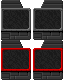
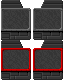
Prices in equip slot menu #739

diff --git a/src/weapon_menu.c b/src/weapon_menu.c
@@ -193,6 +193,9 @@ static void DrawEquipSlot(
 	const bool selected = data->EquipSlot == slot;
 	color_t color = data->equipping ? colorDarkGray : colorWhite;
 	color_t mask = color;
+	// Allow space for price if buy/sell enabled
+	const int h =
+		EQUIP_MENU_SLOT_HEIGHT + (gCampaign.Setting.BuyAndSell ? FontH() : 0);
 	if (selected)
 	{
 		if (data->equipping)
@@ -206,7 +209,7 @@ static void DrawEquipSlot(
 			// Add 1px padding
 			const struct vec2i bgPos = svec2i_subtract(pos, svec2i_one());
 			const struct vec2i bgSize =
-				svec2i(WEAPON_MENU_WIDTH / 2 + 2, EQUIP_MENU_SLOT_HEIGHT + 2);
+				svec2i(WEAPON_MENU_WIDTH / 2 + 2, h + 2);
 			DrawRectangle(g, bgPos, bgSize, bg, true);
 
 			color = colorRed;
@@ -227,7 +230,7 @@ static void DrawEquipSlot(
 		g, slotBG,
 		Rect2iNew(
 			svec2i(bgPos.x + 1, bgPos.y + 1),
-			svec2i(WEAPON_MENU_WIDTH / 2, EQUIP_MENU_SLOT_HEIGHT - 2)),
+			svec2i(WEAPON_MENU_WIDTH / 2, h - 2)),
 		11, (slot & 1) ? 4 : 13, 12, (slot & 1) ? 13 : 4, true, mask,
 		SDL_FLIP_NONE);
 
@@ -242,9 +245,7 @@ static void DrawEquipSlot(
 	// Draw icon at center of slot
 	const struct vec2i gunPos = svec2i_subtract(
 		svec2i_add(
-			bgPos,
-			svec2i_scale_divide(
-				svec2i(WEAPON_MENU_WIDTH / 2, EQUIP_MENU_SLOT_HEIGHT), 2)),
+			bgPos, svec2i_scale_divide(svec2i(WEAPON_MENU_WIDTH / 2, h), 2)),
 		svec2i_scale_divide(gunIcon->size, 2));
 	PicRender(
 		gunIcon, g->gameWindow.renderer, gunPos,
@@ -257,7 +258,19 @@ static void DrawEquipSlot(
 			g, svec2i(pos.x + WEAPON_MENU_WIDTH / 2 - 6, y + 13), colorGreen);
 	}
 
-	y += EQUIP_MENU_SLOT_HEIGHT - FontH() - 1;
+	// Draw price
+	if (gCampaign.Setting.BuyAndSell && data->equipping && pData->guns[slot] &&
+		pData->guns[slot]->Price != 0)
+	{
+		const FontOpts foptsP = {
+			ALIGN_CENTER, ALIGN_START, svec2i(WEAPON_MENU_WIDTH / 2, FontH()),
+			svec2i(2, 2), selected ? colorGray : colorDarkGray};
+		char buf[256];
+		sprintf(buf, "$%d", pData->guns[slot]->Price);
+		FontStrOpt(buf, svec2i_add(pos, svec2i(0, FontH() + 2)), foptsP);
+	}
+
+	y += h - FontH() - 1;
 	const char *gunName =
 		pData->guns[slot] ? pData->guns[slot]->name : NO_GUN_LABEL;
 	const FontOpts fopts2 = {
@@ -271,18 +284,19 @@ static void DrawEquipMenu(
 {
 	UNUSED(menu);
 	const WeaponMenuData *d = data;
-	const PlayerData *pData = PlayerDataGetByUID(d->PlayerUID);
+	const PlayerData *pData = PlayerDataGetByUID(
+		d->PlayerUID); // Allow space for price if buy/sell enabled
+	const int h =
+		EQUIP_MENU_SLOT_HEIGHT + (gCampaign.Setting.BuyAndSell ? FontH() : 0);
 
 	DrawEquipSlot(d, g, 0, "I", svec2i(pos.x, pos.y), ALIGN_START);
 	DrawEquipSlot(
 		d, g, 1, "II", svec2i(pos.x + WEAPON_MENU_WIDTH / 2, pos.y),
 		ALIGN_END);
 	DrawEquipSlot(
-		d, g, MELEE_SLOT, "Melee",
-		svec2i(pos.x, pos.y + EQUIP_MENU_SLOT_HEIGHT), ALIGN_START);
+		d, g, MELEE_SLOT, "Melee", svec2i(pos.x, pos.y + h), ALIGN_START);
 	DrawEquipSlot(
-		d, g, 3, "Bombs",
-		svec2i(pos.x + WEAPON_MENU_WIDTH / 2, pos.y + EQUIP_MENU_SLOT_HEIGHT),
+		d, g, 3, "Bombs", svec2i(pos.x + WEAPON_MENU_WIDTH / 2, pos.y + h),
 		ALIGN_END);
 
 	const WeaponClass *gun = NULL;
@@ -291,9 +305,7 @@ static void DrawEquipMenu(
 		gun = pData->guns[d->display.GunIdx];
 	}
 	DrawCharacterSimple(
-		&pData->Char,
-		svec2i(
-			pos.x + WEAPON_MENU_WIDTH / 2, pos.y + EQUIP_MENU_SLOT_HEIGHT + 8),
+		&pData->Char, svec2i(pos.x + WEAPON_MENU_WIDTH / 2, pos.y + h + 8),
 		DIRECTION_DOWN, false, false, gun);
 
 	const struct vec2i endSize = FontStrSize(END_MENU_LABEL);
@@ -301,9 +313,7 @@ static void DrawEquipMenu(
 	DisplayMenuItem(
 		g,
 		Rect2iNew(
-			svec2i(
-				CENTER_X(pos, size, endSize.x),
-				pos.y + EQUIP_MENU_SLOT_HEIGHT * 2 + FontH()),
+			svec2i(CENTER_X(pos, size, endSize.x), pos.y + h * 2 + FontH()),
 			FontStrSize(END_MENU_LABEL)),
 		END_MENU_LABEL, d->EquipSlot == MAX_WEAPONS, endDisabled, colorWhite);
 }
@@ -738,7 +748,8 @@ static void DrawGun(
 	if (gCampaign.Setting.BuyAndSell && wc && wc->Price != 0)
 	{
 		const FontOpts foptsP = {
-			ALIGN_CENTER, ALIGN_START, bgSize, svec2i(2, 2), colorDarker};
+			ALIGN_CENTER, ALIGN_START, bgSize, svec2i(2, 2),
+			data->equipping ? colorGray : colorDarkGray};
 		char buf[256];
 		sprintf(buf, "$%d", wc->Price);
 		FontStrOpt(buf, bgPos, foptsP);
